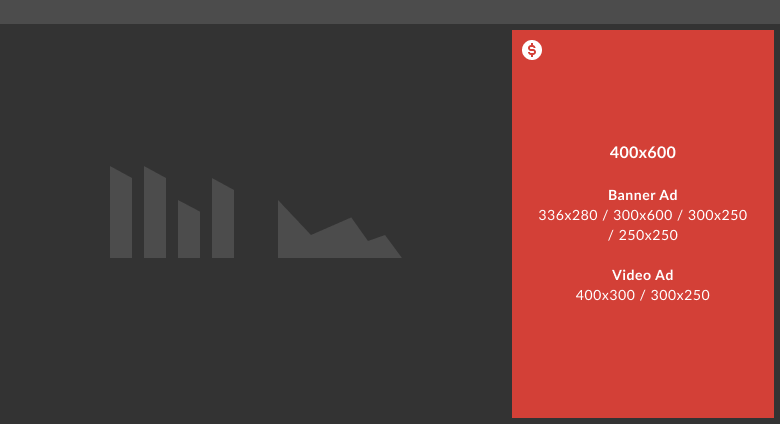
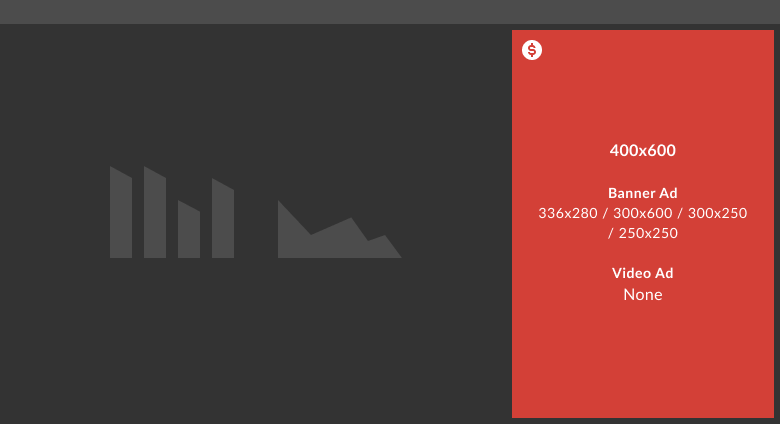
Ads layout ready

Changed region(s): [[0.6769, 0.4292, 0.9538, 0.5825], [0.7385, 0.6132, 0.9231, 0.7052], [0.7692, 0.3373, 0.8615, 0.3986]]

diff --git a/website/src/components/start/monetize-your-app/advertising/ads-layout-row.tsx b/website/src/components/start/monetize-your-app/advertising/ads-layout-row.tsx
@@ -5,27 +5,46 @@ import OWdataCell from '../../../ow-table/ow-data-cell';
 import OWTabs from '../../../ow-tabs/ow-tabs';
 import OWTabItem from '../../../ow-tabs/ow-tab-item';
 import ThemedImage from '../../../shorthands/themed-image/ThemedImage';
+import './ads-layout-row.scss';
 
+
+function join(dir: string, path: string): string {
+    return `${dir}/${path}`;
+}
+
+function AdField(props: {title: string, value: string, first?: boolean}){
+    const {title, value, first} = props;
+    return (
+        <div style={{minWidth: first ? '250px' : ''}}>
+            <b style={{color: 'var(--color-999)'}}>{`${title}:`}</b>{` ${value}`}
+        </div>
+    )
+}
 
 function AdsLayoutRow(props: {
-    layout: {
-        image: string,
-        name: string
-    },
-    revenueBenchmark: string; tabs?: [{ image: string, name: string }]; description: {
+    name: string
+    assetsPath: string;
+    revenueBenchmark: string; tabs: string[]; overview: {
         description: string,
-        hasVideo: boolean,
+        showsVideo: boolean,
         dimensions: string,
         userFriction: string,
         designConstraints: string,
         revenue: string
     }
 }) {
-    const { layout, revenueBenchmark, tabs, description } = props;
-    const tabsItems = tabs?.map(item => {
+    const { name, assetsPath, revenueBenchmark, tabs, overview } = props;
+    const fullSizePath = join(assetsPath, 'full-size');
+    let tabsItems = tabs.map((item, i) => {
+        let name = `${item} Variant`;
+        item = item.replace(' Aligned', '');
+        const id = item.toLocaleLowerCase().replace(' ', '-');
+        let filePath = join(fullSizePath, 'layout.png')
+        if(i === 0) name += " (Main)"
+        else filePath = filePath.replace('.png', `-${id}.png`)
         return(
-            <OWTabItem key={item.name} tabID={item.name.toLocaleLowerCase().replace(' ', '-')} label={item.name}>
-                <ThemedImage imageUrl={item.image} alt={item.name} />
+            <OWTabItem key={id} tabID={id} label={name}>
+                <ThemedImage imageUrl={filePath} alt={name} />
             </OWTabItem>
         )
     })
@@ -34,28 +53,28 @@ function AdsLayoutRow(props: {
 
     return (
         <OWexpandedRowGroup>
-            <OWTableRow expandButton={!!tabs}>
-                <OWdataCell thTitle={'Layout'} width={'20%'} useAsMobileTitle={true}>
-                    <b>{layout.name}</b>
-                    <ThemedImage imageUrl={layout.image} alt={layout.name} />
+            <OWTableRow expandButton={true}>
+                <OWdataCell thTitle={'Layout'} width={'23%'} useAsMobileTitle={true}>
+                    <b>{name}</b>
+                    <ThemedImage imageUrl={join(assetsPath, 'preview.svg')} alt={`${name} Preview`} />
                 </OWdataCell>
-                <OWdataCell thTitle={'Value ($)'} width={'15%'}>
+                <OWdataCell thTitle={'Revenue Est. ($)'} width={'13%'}>
                     {revenueBenchmark}
                 </OWdataCell>
-                <OWdataCell thTitle={'Description'} width={'100%'}>
-                    <p>{description.description}</p>
-                    <div><b>Dimensions</b> - {description.dimensions}</div>
-                    <div><b>Revenue</b> - {description.revenue}, <b>Has Video</b> - {description.hasVideo ? "Yes" : "No"}</div>
-                    <div><b>Design Constraints</b> - {description.designConstraints}, <b>User Friction</b> - {description.userFriction}</div>
+                <OWdataCell thTitle={'Overview'} width={'64%'}>
+                    <p style={{marginBottom: '12px'}}>{overview.description}</p>
+                    <div>
+                        <div id='row'><AdField title='Dimensions' value={overview.dimensions}/></div>
+                        <div id='row'><AdField title='Revenue' value={overview.revenue} first={true}/> <AdField title='Show Video Ads' value={overview.showsVideo ? "Yes" : "No"}/></div>
+                        <div id='row'><AdField title='Design Constraints' value={overview.designConstraints} first={true}/> <AdField title='User Friction' value={overview.userFriction}/></div>
+                    </div>
                 </OWdataCell>
             </OWTableRow>
-            {tabs && 
-                <OWTableRow>
-                    <OWTabs>
-                        {tabsItems}
-                    </OWTabs>
-                </OWTableRow>
-            }
+            <OWTableRow>
+                <OWTabs>
+                    {tabsItems}
+                </OWTabs>
+            </OWTableRow>
         </OWexpandedRowGroup>
     );
 

diff --git a/website/src/components/ow-table/ow-table.scss b/website/src/components/ow-table/ow-table.scss
@@ -128,7 +128,7 @@
 
     @media (min-width: 600px) {
       &:has(.expand-row) > div:last-of-type {
-        padding-right: 50px;
+        padding-right: 35px;
         padding-bottom: 50px;
       }
     }
@@ -140,15 +140,15 @@
       }
 
       &:nth-child(1) {
-        width: 20%;
+        width: 23%;
       }
 
       &:nth-child(2) {
-        width: 15%;
+        width: 13%;
       }
 
       &:last-of-type {
-        width: 100%;
+        width: 64%;
       }
 
     }

diff --git a/website/src/components/ow-table/ow-table-row.tsx b/website/src/components/ow-table/ow-table-row.tsx
@@ -58,7 +58,7 @@ const OWTableRow: FC<OWTableRowProps> = props => {
           className={`expand-row ${isRowExpended ? 'is-expanded' : ''}`}
           onClick={handleExpandRow}
         >
-          {!isRowExpended ? 'See more' : 'Hide'}
+          {!isRowExpended ? 'View Full' : 'Collapse'}
           <svg><use href="/img/sprite.svg#arrowDown" /></svg>
 
         </button>

diff --git a/website/src/components/image-heading/image-heading.tsx b/website/src/components/image-heading/image-heading.tsx
@@ -18,7 +18,7 @@ const ImageHeading: FC<ImageHeadingProps> = props => {
   const imgSrc = themeState == 'light' ? imgLightSrc : imgDarkSrc;
   return (
     <div className='image-heading'>
-      <img src={imgSrc} alt={title} />
+      <img src={imgSrc} alt={`${title} Icon`} />
       <div className='content'>
         <h2>{title}</h2>
         {children}

diff --git a/website/src/components/start/monetize-your-app/advertising/ads-layout-row.scss b/website/src/components/start/monetize-your-app/advertising/ads-layout-row.scss
@@ -1,0 +1,4 @@
+#row {
+    display: flex;
+    flex-direction: row;
+}
